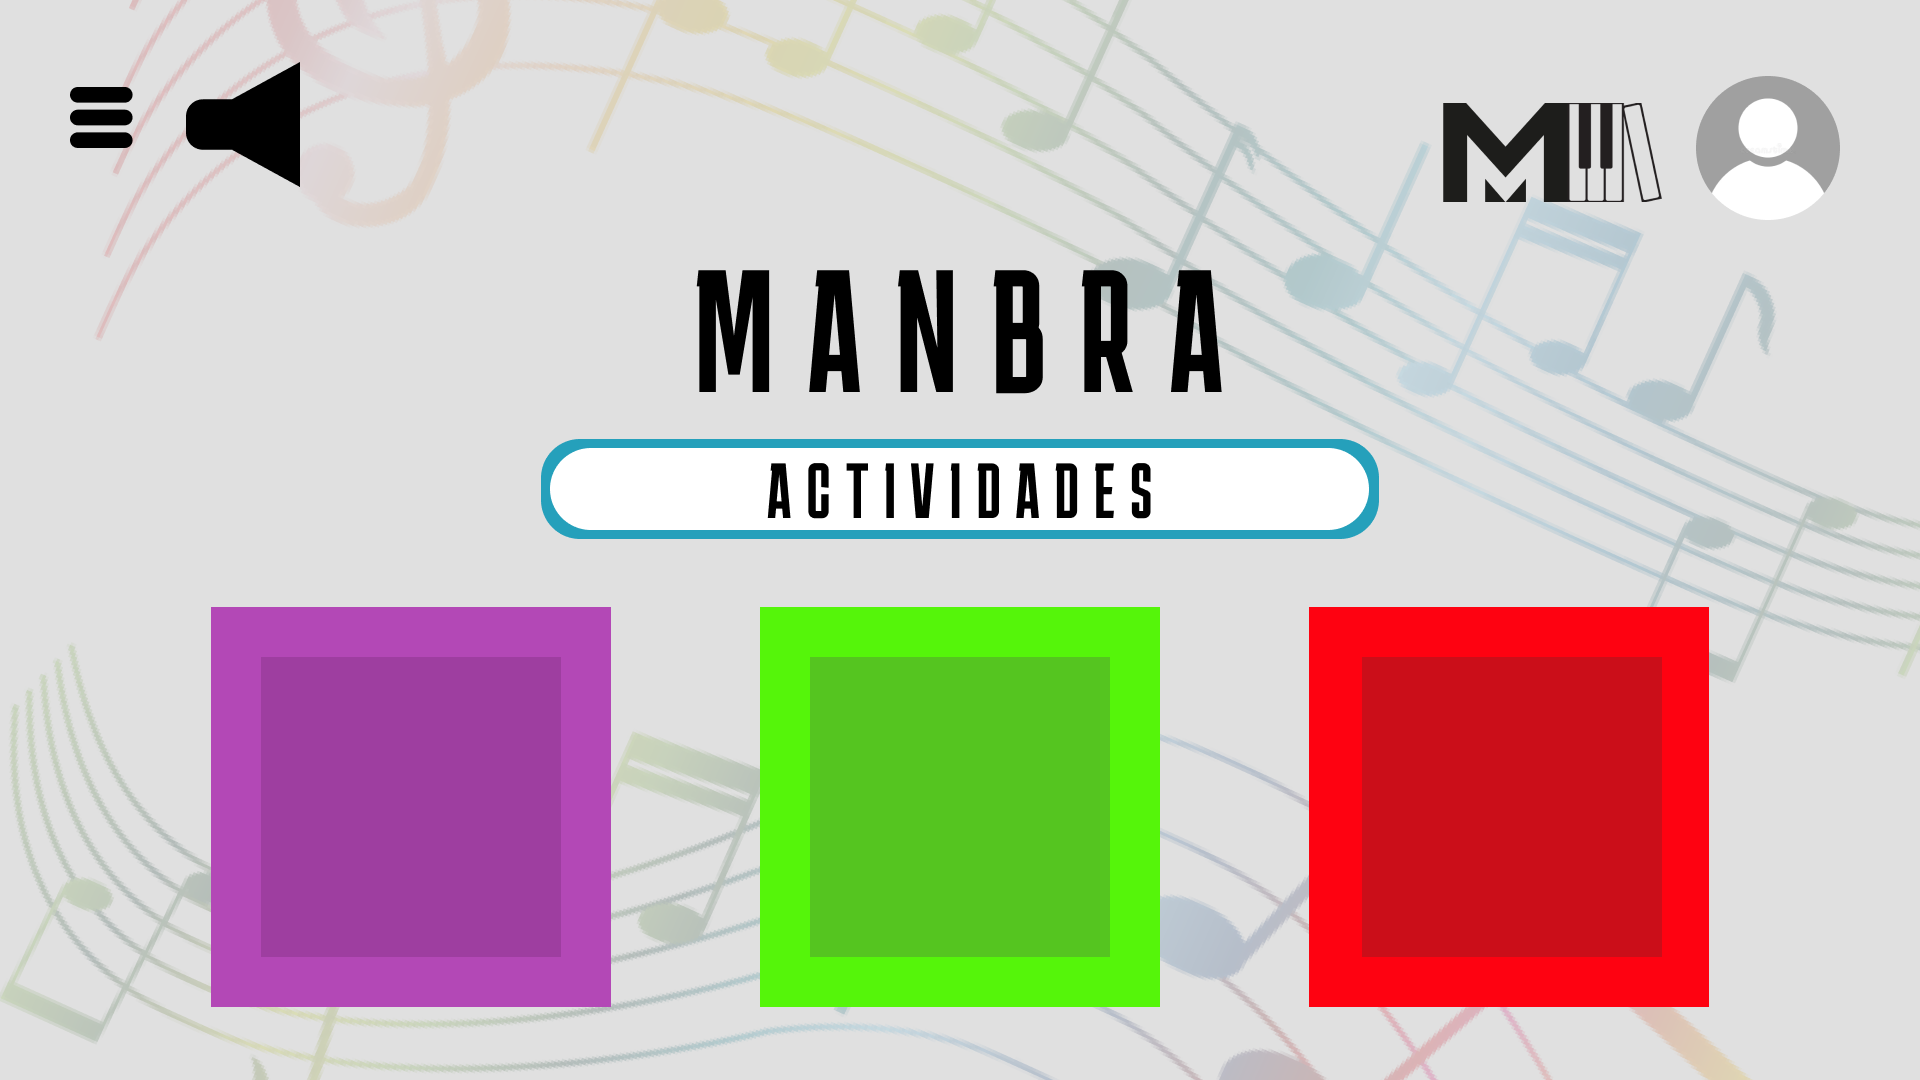
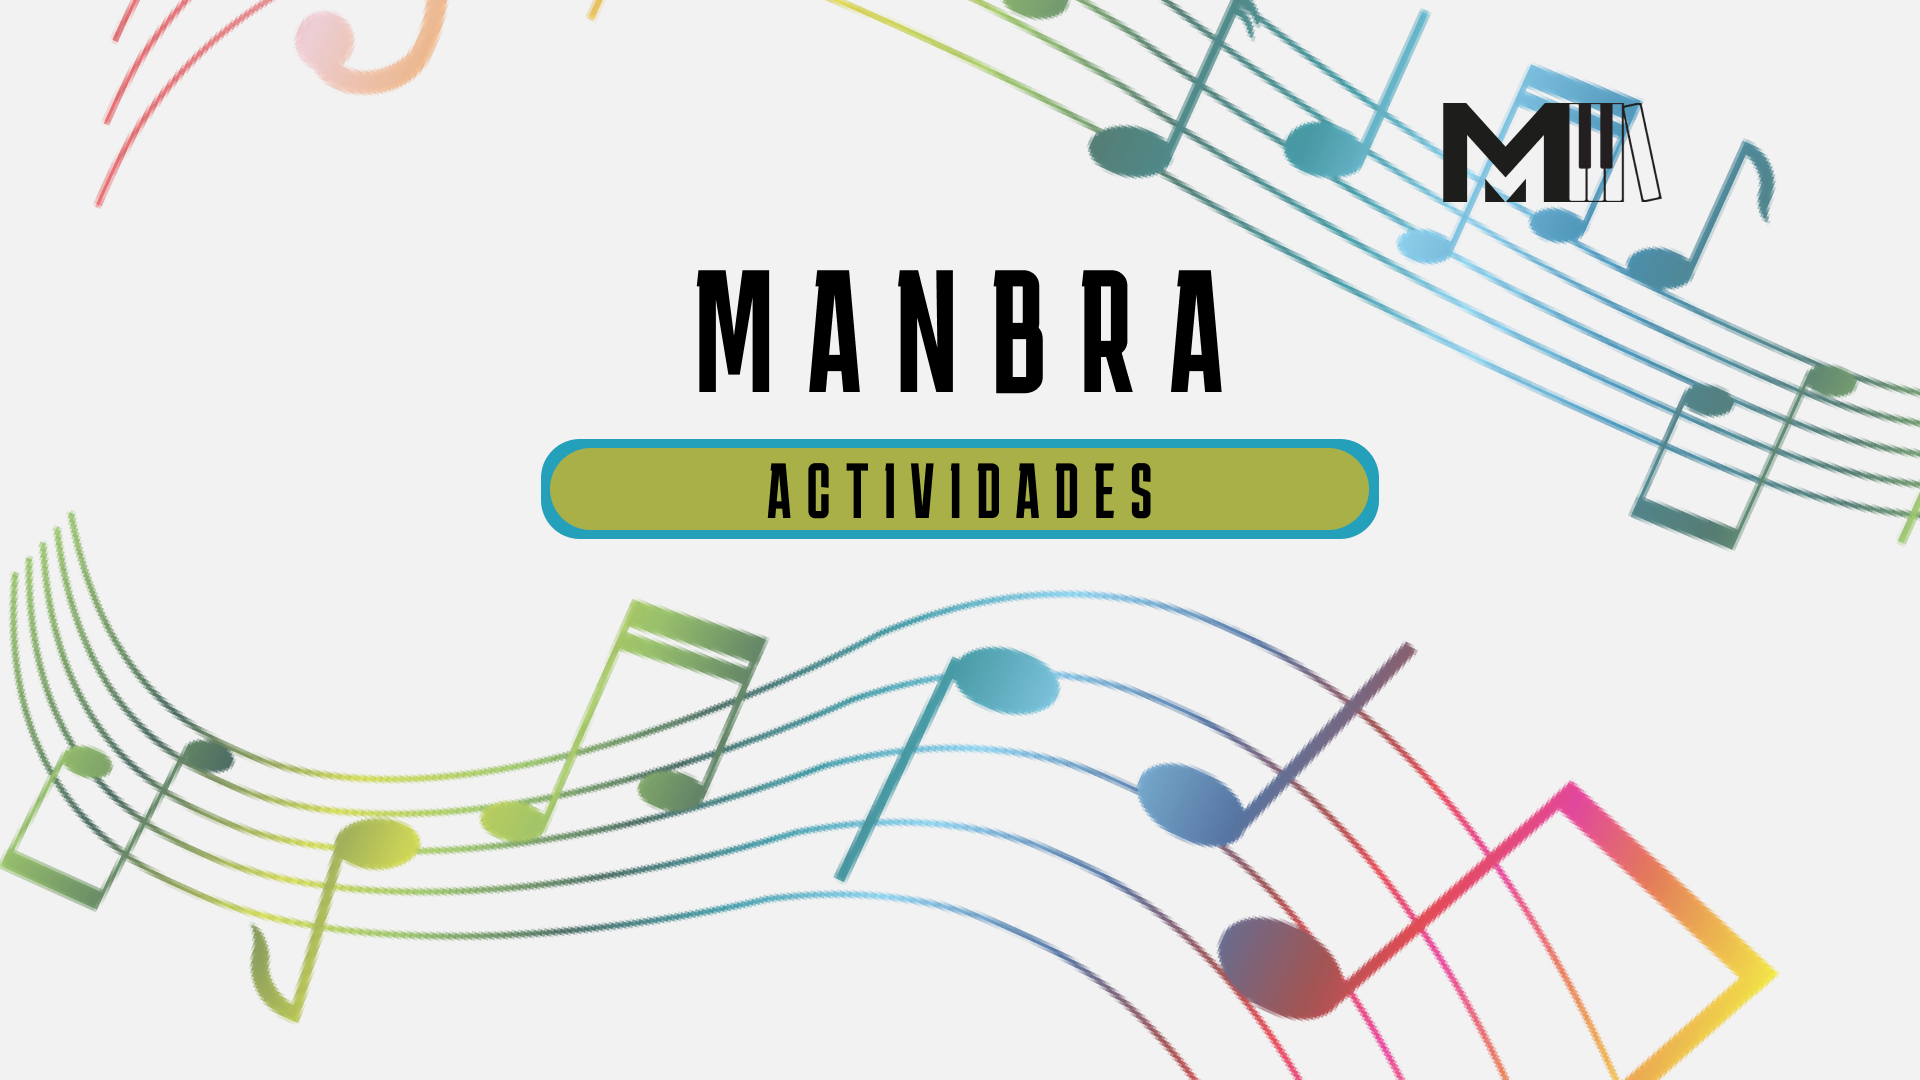
Diseño principal y reconocer

diff --git a/css/principal.css b/css/principal.css
@@ -1,0 +1,106 @@
+.fondo1 
+    {
+        background-image: url('../diseño/PRINCIPAL.png');
+        background-size: cover;
+        background-repeat: no-repeat;
+        background-attachment: fixed;
+        text-align: center;
+        padding-top: 50px; 
+    } 
+    .btnSimon
+{
+    background-color: transparent;
+    background-image: url('../diseño/btnSimon.png');
+    background-size: cover;
+    background-repeat: no-repeat;
+    background-position: center;
+    border: none;
+    color: #fff;
+    padding: 50px 100px;
+    cursor: pointer;
+    display: inline-block;
+    margin: 20px; 
+    text-decoration: none;
+    font-size: 25px;
+    position: relative; 
+    top: 350px; 
+
+}
+.btnReconocer
+{
+    background-color: transparent;
+    background-image: url('../diseño/btnReconocer.png'); 
+    background-size: cover;
+    background-repeat: no-repeat;
+    background-position: center;
+    border: none;
+    color: #fff;
+    padding: 50px 100px;
+    cursor: pointer;
+    display: inline-block;
+    margin: 20px;
+    text-decoration: none;
+    font-size: 25px;
+    position: relative; 
+    top: 350px; 
+}
+.btnPiano
+{
+    background-color: transparent;
+    background-image: url('../diseño/btnPiano.png'); 
+    background-size: cover;
+    background-repeat: no-repeat;
+    background-position: center;
+    border: none;
+    color: #fff;
+    padding: 50px 100px;
+    cursor: pointer;
+    display: inline-block;
+    margin: 20px;
+    text-decoration: none;
+    font-size: 25px;
+    position: relative; 
+    top: 350px; 
+}
+
+.btnAjustes
+{
+   /* background-color: transparent;
+    background-image: url('../diseño/btnAjustes.png');
+    background-size: cover;
+    background-repeat: no-repeat;
+    background-position: center;
+    border: none;
+    color: #fff;
+    padding: 20px 40px;
+    cursor: pointer;
+    display: inline-block;
+    margin: 20px;
+    text-decoration: none;
+    font-size: 25px;*/ 
+    position: absolute;
+    top: 8%;
+    left: 6%;
+    width:100px;
+    }
+    
+
+.btnPerfil
+{
+    background-color: transparent;
+    background-image: url('../diseño/btnPerfil.png'); 
+    background-size: cover;
+    background-repeat: no-repeat;
+    background-position: center;
+    border: none;
+    color: #fff;
+    padding: 20px 40px;
+    cursor: pointer;
+    display: inline-block;
+    margin: 20px;
+    text-decoration: none;
+    font-size: 25px;
+    position: absolute;
+    top: 8%;
+    left: 87%;
+    }

diff --git a/css/reconocer.css b/css/reconocer.css
@@ -1,38 +1,60 @@
-body {
-  font-family: Arial, sans-serif;
-  display: flex;
-  justify-content: center;
-  align-items: center;
-  height: 100vh;
-  margin: 0;
-  background-color: #f4f4f4;
+.fondo2 
+{
+    background-image: url('../diseño/FondoReconocer.png');
+    background-size: cover;
+    background-repeat: no-repeat;
+    background-attachment: fixed;
+    text-align: center;
+    padding-top: 50px; 
 }
-
-
-.game-container {
-  text-align: center;
-  padding: 20px;
-  background-color: #fff;
-  border-radius: 10px;
-  box-shadow: 0px 0px 10px rgba(0, 0, 0, 0.2);
+.btnGuitarraelectrica
+{
+    background-color: transparent;
+    background-image: url('../diseño/guitarraelectrica.png');
+    background-size: cover;
+    background-repeat: no-repeat;
+    background-position: center;
+    border: none;
+    color: #fff;
+    padding: 10px 20px;
+    cursor: pointer;
+    display: inline-block;
+    margin: 10px; 
+    text-decoration: none; 
+    font-size: 18px;
 }
-
-.options {
-  display: flex;
-  flex-wrap: wrap;
-  justify-content: center;
-  margin-top: 20px;
+.btnViolin
+{
+    background-color: transparent;
+    background-image: url('../diseño/violin.png');
+    background-size: cover;
+    background-repeat: no-repeat;
+    background-position: center;
+    border: none;
+    color: #fff;
+    padding: 10px 20px;
+    cursor: pointer;
+    display: inline-block;
+    margin: 10px; 
+    text-decoration: none; 
+    font-size: 18px;
 }
-
-.option {
-  width: 150px;
-  height: 150px;
-  margin: 10px;
-  cursor: pointer;
-  transition: transform 0.2s;
-}
-
-
-.option:hover {
-  transform: scale(1.1);
+.btnCasa
+{
+    background-color: transparent;
+    background-image: url('../diseño/btnCasa.png');
+    background-size: cover;
+    background-repeat: no-repeat;
+    background-position: center;
+    border: none;
+    color: #fff;
+    padding: 20px 40px;
+    cursor: pointer;
+    display: inline-block;
+    margin: 10px; 
+    text-decoration: none; 
+    font-size: 18px;
+    position: absolute;
+    top: 8%;
+    left: 90%;
 }

diff --git a/html/principal.html b/html/principal.html
@@ -4,25 +4,19 @@
     <meta charset="UTF-8">
     <meta name="viewport" content="width=device-width, initial-scale=1.0">
     <title>Botones Interactivos</title>
+    <link rel="stylesheet" href="../css/principal.css">
+
 </head>
-<body>
-    <h1>Selecciona una opción:</h1>
-    <button onclick="irAPiano()">Piano Interactivo</button>
-    <button onclick="irAAdivina()">Adivina el Instrumento</button>
-    <button onclick="irASimon()">Simon</button>
+<body class="fondo1">
 
-    <script>
-        function irAPiano() {
-            window.location.href = "piano.html"; // Cambia "piano.html" por la URL de tu página de piano.
-        }
+    <a href="piano.html" class="btnPiano">Piano</a>
+    <a href="reconocer.html" class="btnReconocer">Reconocer</a>
+    <a href="simon.html" class="btnSimon">Simon</a>
 
-        function irAAdivina() {
-            window.location.href = "reconocer.html"; // Cambia "adivina.html" por la URL de tu página de adivina el instrumento.
-        }
+    <img class="btnAjustes" src="../diseño/btnAjustes.png">
+    <a href="perfil.html" class="btnPerfil"></a>
 
-        function irASimon() {
-            window.location.href = "simon.html"; // Cambia "simon.html" por la URL de tu página de Simon.
-        }
-    </script>
+
+
 </body>
 </html>

diff --git a/js/script1.js b/js/script1.js
@@ -133,7 +133,7 @@ function limpiarcomponentes(){
         grupo=2;  
       }else if (grupo==2){
         limpiarcomponentes();
-        Recarga("../instrumentos/percusion/bateria.webp","bateria","../instrumentos/percusion/bombo.png","bombo","../instrumentos/percusion/pandereta.png","pandereta","../instrumentos/percusion/triangulo.png","triangulo","instruments3");   
+        Recarga("../instrumentos/percusion/bateria.png","bateria","../instrumentos/percusion/bombo.png","bombo","../instrumentos/percusion/pandereta.png","pandereta","../instrumentos/percusion/triangulo.png","triangulo","instruments3");   
         grupo=3;
       }else if (grupo==3){
         Carga1();

diff --git a/html/reconocer.html b/html/reconocer.html
@@ -2,15 +2,21 @@
 
 <head>
 
-  
-
-  
   <meta charset="UTF-8">
   <meta name="viewport" content="width=device-width, initial-scale=1.0">
   <title>Adivina el Instrumento</title>
   <link rel="stylesheet" href="../css/reconocer.css">
 </head>
 <body>
+  <body class="fondo2">
+
+    <a href="guitarraelectrica.html" class="guitarraelectrica"></a>
+    <a href="violin.html" class="violin"></a>
+    <a href="casa.html" class="btnCasa">Menu</a>
+
+
+
+
   <div class="game-container">
     <h1>Adivina el instrumento!</h1>
     <button id="play-button">Iniciar sonido</button>
